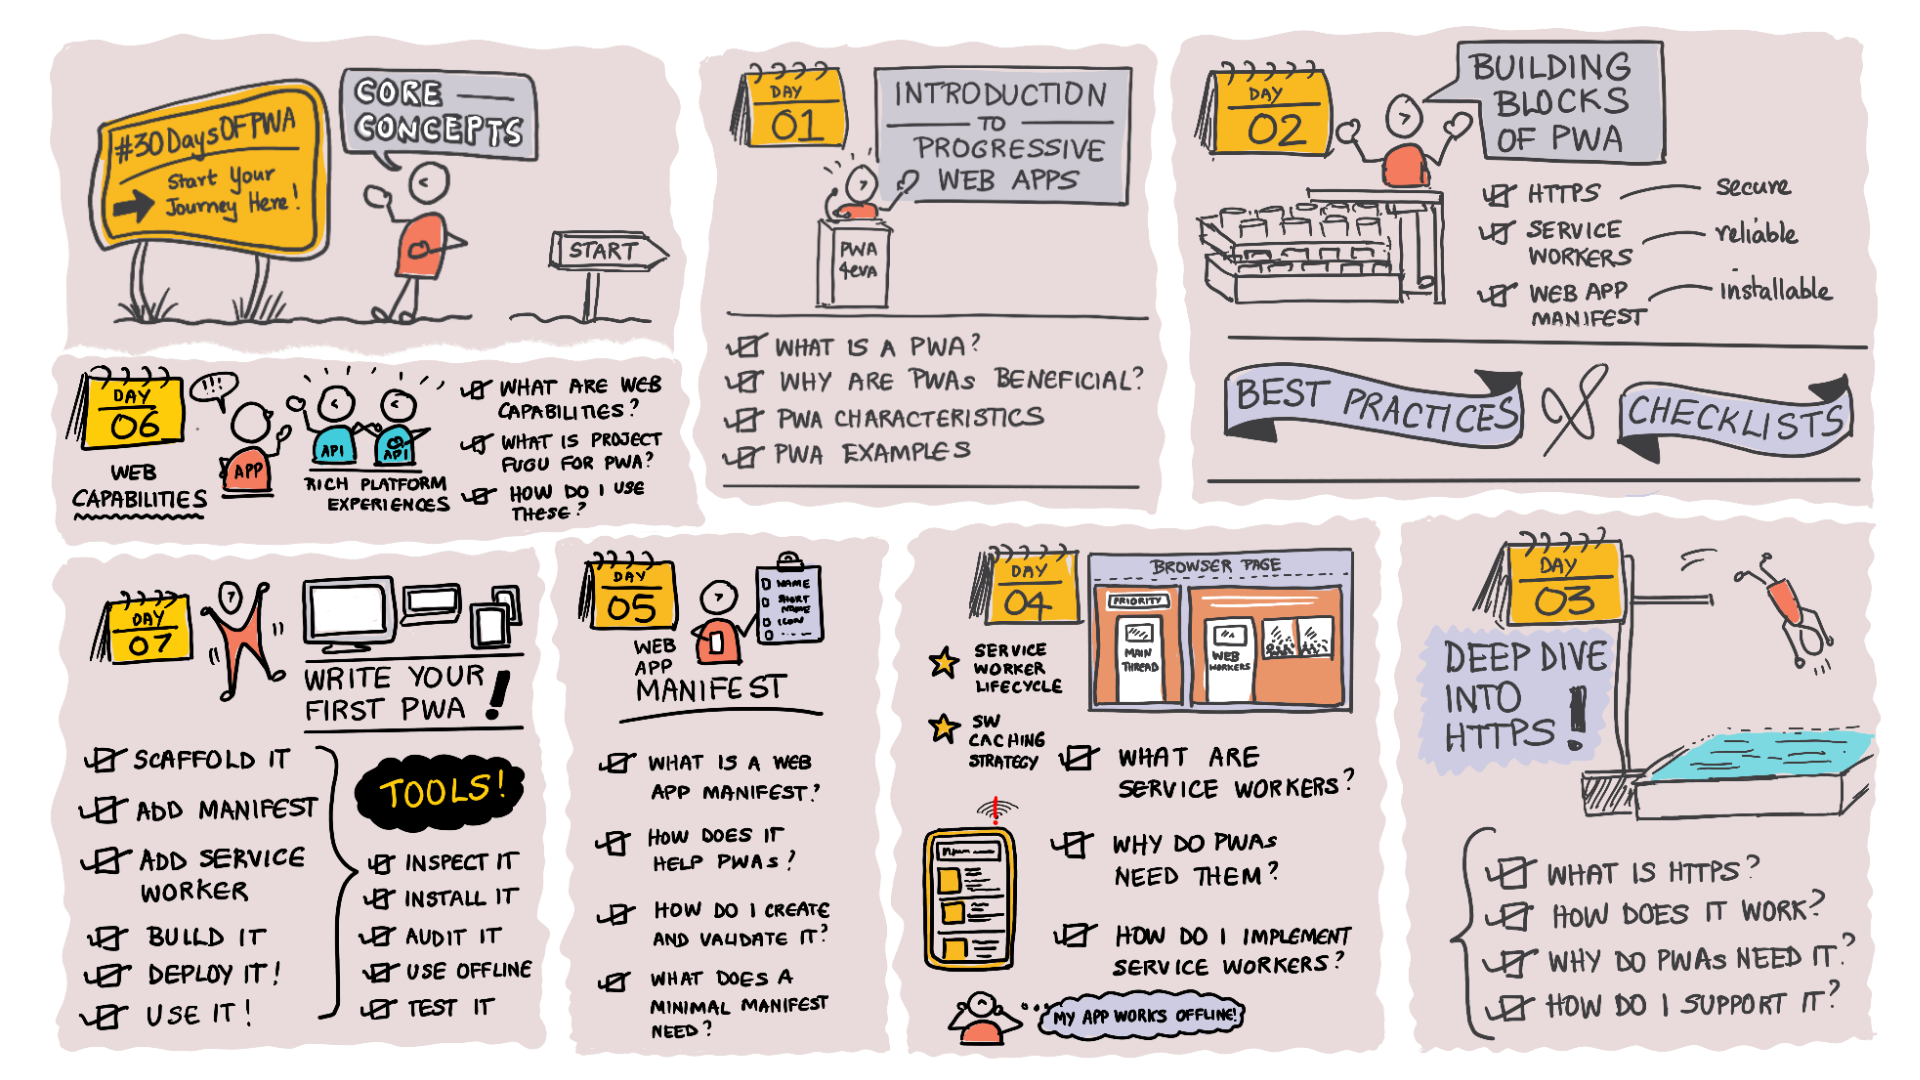
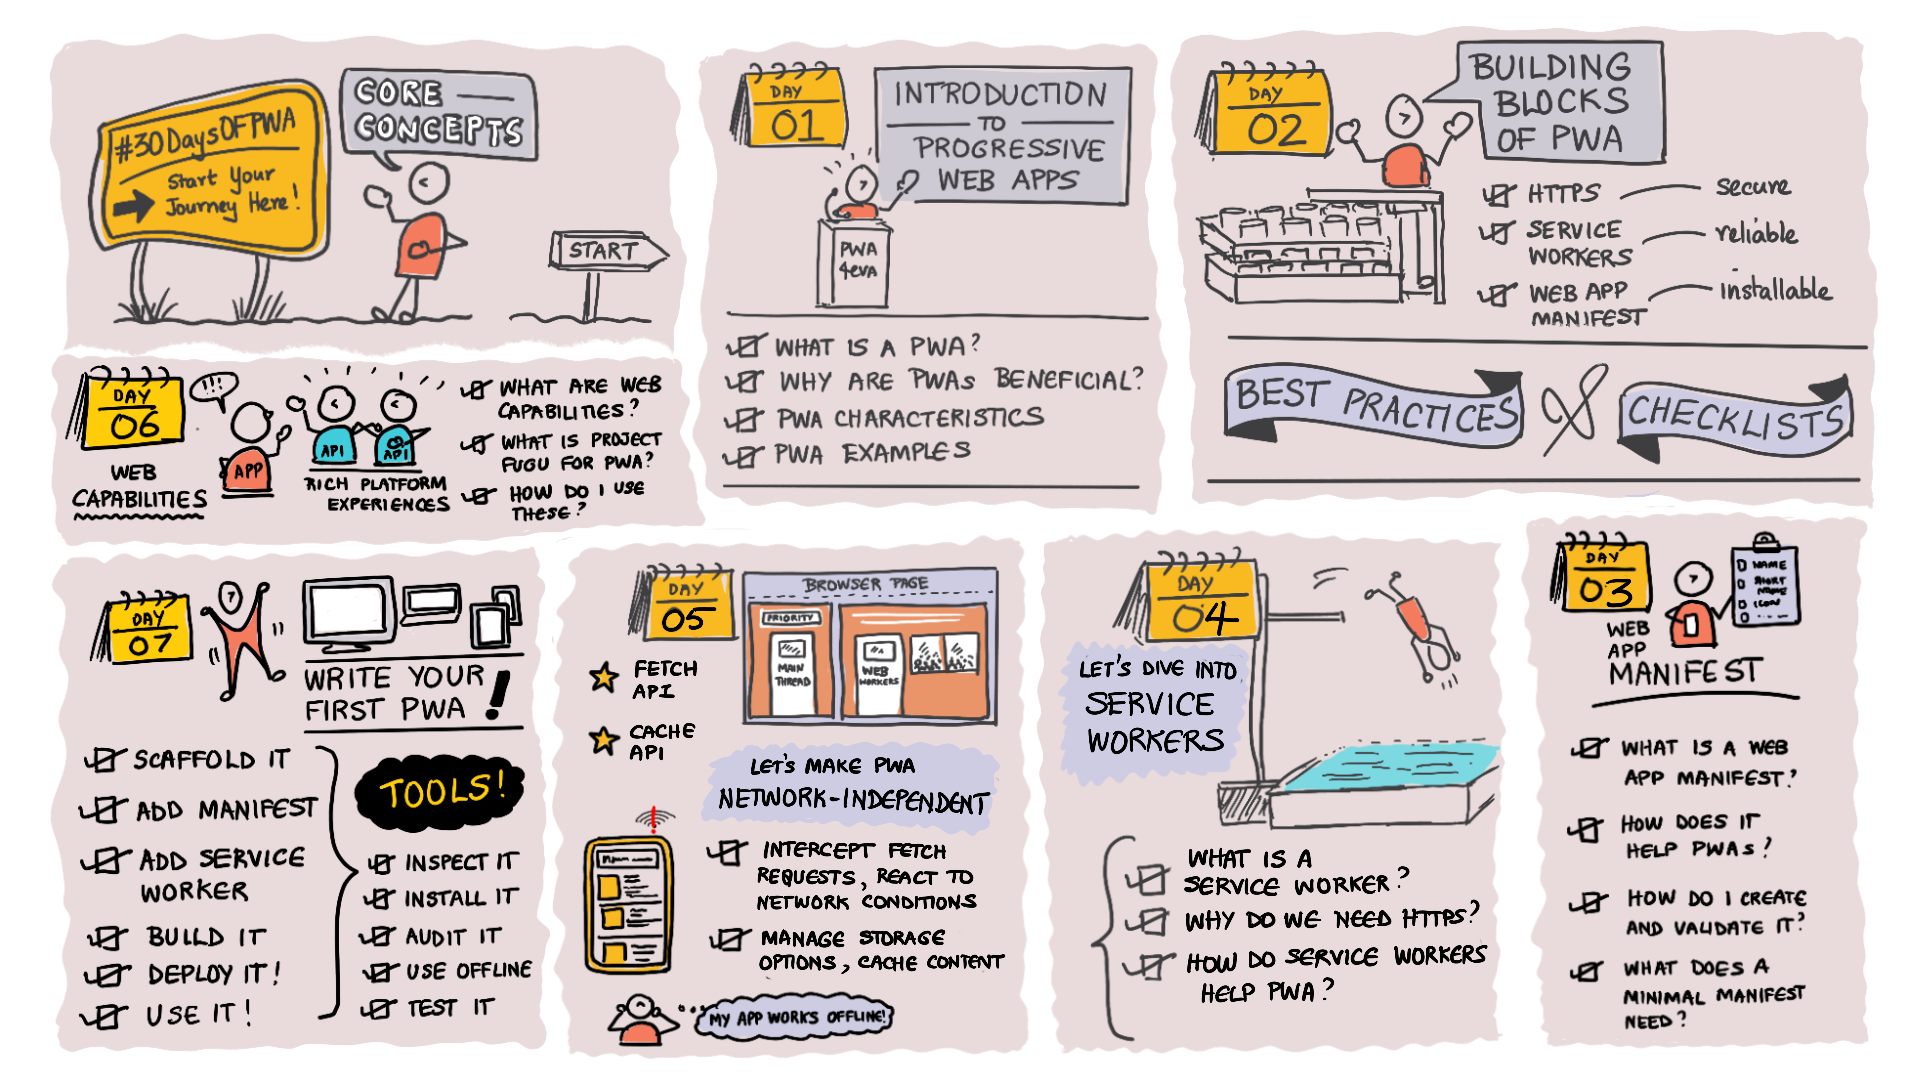
Core Concepts Sidebar/README updated

Changed region(s): [[0.2812, 0.4583, 1.0, 0.9778]]

diff --git a/docs/30DaysOfPWA/core-concepts/README.md b/docs/30DaysOfPWA/core-concepts/README.md
@@ -1,69 +1,21 @@
 # Week 1. Core Concepts
 
+Welcome to Week 1 of #30DaysOfPWA. Want to learn more about this project? Check out our [Kickoff](../kickoff.md) post to get more details on the content roadmap and contributors. Then read on for what we'll cover **this week**.
+
 ![Visual Guide to Core Concepts Week!](_media/week-1.png)
 
+---
 
-### WHAT WE'LL COVER IN WEEK 1
+## WHAT WE'LL COVER IN WEEK 1
+
+| Topic | Description|
+|:--- |:--- |
+| 1 - [Introducing PWA.](01.md) | What is a Progressive Web App (PWA)? How does it compare to other apps? What drives real-world PWA adoption? What characterizes a _good_ PWA? <br/><br/> **Exercise:** Install and explore a PWA.<br/> **Watch For:** [Week 4: Platforms And Practices](../platforms-practices) |
+| 2 - [Deconstructing PWA.](02.md) | What are the building blocks of a PWA? What does each contribute to PWA experience? What are core (vs. optional) features for PWA development? <br/><br/> **Exercise:** Audit sample PWA - explore the reports. <br/> **Watch For:** [Week 4: Platforms And Practices](../platforms-practices)|
+| 3 - [Make it Installable.](03.md) | What is a Web App Manifest? What does a minimal PWA manifest provide? How does do properties unlock advanced capabilities? <br/><br/> **Exercise:** Inspect _manifest.json_ - using DevTools.<br/> **Watch For:** [Week 3: Developer Tools](../dev-tools) |
+| 4 - [Make it Reliable.](04.md) | What is a Service Worker? Why is HTTPS essential? Understand registration and lifecycle events. Learn key use cases and Web APIs for service workers. <br/><br/> **Exercise:** Inspect _sw.js_ - using DevTools. <br/> **Watch For:** [Week 3: Developer Tools](../dev-tools) |
+| 5 - [Make it Work Offline.](05.md) | What is an offline PWA experience? How do PWAs detect network changes? Understand PWA caching strategies and storage options. <br/><br/> **Exercise:** Inspect  _Cache_, _Storage_ - using DevTools.<br/> **Watch For:** [Week 3: Developer Tools](../dev-tools)  |
+| 6 - [Make it Capable.](06.md) | What is the web capabilities project? What are key web APIs, interfaces? What is Feature Detection? What are pros & cons for PWA development?  <br/><br/> **Exercise:** Explore new capabilities in installed PWA. <br/> **Watch For:** [Week 2: Advanced Capabilities](../advanced-capabilities) |
+| 7 - [Build it Iteratively.](07.md) | How do I build a PWA from scratch? How do I enhance an existing app for PWA readiness? What tools and practices can I rely on as a developer?   <br/><br/> **Exercise:** Audit & fix existing app. Get minimal PWA. <br/> **Watch For:** [Week 3: Developer Tools](../dev-tools) |
 
 
-### 1.1 | &nbsp; [Introduction to PWA](02.md) 
-
-* What is a Progressive Web App? 
-* Why are the benefits and challenges of PWA?
-* What are the characteristics of PWA?
-* What are real-world examples of PWA adoption?
-* Explore: [PWA Stats](https://www.pwastats.com/) 
-* Related: [Week 4: Platforms And Practices](../platforms-practices)
-
-
-### 1.2 | &nbsp; [Building Blocks](03.md) 
-
-* What are the core components of a PWA?
-* What are the minimal requirements for a good PWA?
-* What are good practices for PWA development?
-* How can I validate my PWA for compliance?
-* Explore: [PWA Checklist](https://web.dev/pwa-checklist/)
-* Related: [Week 3: Developer Tools](../dev-tools)
-
-### 1.3 | &nbsp; [HTTPS](04.md) 
-
-* What is HTTPS? 
-* How does it work? 
-* Why is it necessary for Progressive Web Apps? 
-* How can I integrate HTTPS support into my PWA?
-* Explore: [Let's Encrypt](https://letsencrypt.org/getting-started/)
-* Related: [Week 4: Platforms And Practices](../platforms-practices)
-
-### 1.4 | &nbsp; [Service Workers](06.md) 
-* What are service workers? 
-* Why are do PWAs need them? 
-* How do I implement service workers in my PWA?
-* Review: Service Worker Lifecycle. 
-* Review: Caching Strategies.
-* Explore: [Service Workers: Primer](https://developers.google.com/web/fundamentals/primers/service-workers)
-* Related: [Week 3: Developer Tools](../dev-tools) | Workbox
-
-### 1.5 | &nbsp; [Web App Manifest](05.md) 
-* What is a Web App Manifest? 
-* How does it help PWAs? 
-* What does a minimal App Manifest need? 
-* How can I create and validate it?
-* Explore: [Web App Manifest: Keys](https://developer.mozilla.org/en-US/docs/Web/Manifest#members)
-* Related: [Week 3: Developer Tools](../dev-tools) | PWABuilder
-
-### 1.6 | &nbsp; [Web Capabilities](07.md) 
-* What are Web Capabilities? 
-* What is Project Fugu? 
-* How ready are they for real-world adoption?
-* How do I get started using web capabilities?
-* Explore: [Fugu API Tracker](https://fugu-tracker.web.app/)
-* Related: [Week 2: Advanced Capabilities](../advanced-capabilities)
-
-### 1.7 | &nbsp; [Quickstart ](08.md) 
-* `Scaffold`: a basic vanillaJS PWA.
-* `Enhance`: add manifest, service workers. 
-* `Build`: deploy and validate PWA operation. 
-* `Audit`: evaluate PWA for compliance, optimizations.
-* `Celebrate`: you built your first PWA!!
-* Explore: [HNPWA: OSS Examples](https://hnpwa.com/) | Archived 
-* Related: [Week 4: Platforms And Practices](../platforms-practices) | For Windows 

diff --git a/docs/_sidebar.md b/docs/_sidebar.md
@@ -3,13 +3,13 @@
 ---
 - [**0. Kickoff**](/30DaysOfPWA/kickoff)
 - [**1. Core Concepts**](/30DaysOfPWA/core-concepts/)
-    - [1.1 Introduction to PWA ](/30DaysOfPWA/core-concepts/01.md)
-    - [1.2 Building Blocks](/30DaysOfPWA/core-concepts/02.md)
-    - [1.3 HTTPS ](/30DaysOfPWA/core-concepts/03.md)
-    - [1.4 Service Workers](/30DaysOfPWA/core-concepts/04.md)
-    - [1.5 Web App Manifest ](/30DaysOfPWA/core-concepts/05.md)
-    - [1.6 Web Capabilities](/30DaysOfPWA/core-concepts/06.md)
-    - [1.7 Quickstart](/30DaysOfPWA/core-concepts/07.md)
+    - [1.1 Introducing PWA.](/30DaysOfPWA/core-concepts/01.md)
+    - [1.2 Deconstructing PWA.](/30DaysOfPWA/core-concepts/02.md)
+    - [1.3 Make PWA Installable. ](/30DaysOfPWA/core-concepts/03.md)
+    - [1.4 Make PWA Reliable.](/30DaysOfPWA/core-concepts/04.md)
+    - [1.5 Make PWA Work Offline. ](/30DaysOfPWA/core-concepts/05.md)
+    - [1.6 Make PWA Capable.](/30DaysOfPWA/core-concepts/06.md)
+    - [1.7 Developing PWA. ](/30DaysOfPWA/core-concepts/07.md)
 - [**2. Advanced Capabilities**](/30DaysOfPWA/advanced-capabilities/)
     - [2.1 Introduction to the advanced capabilities of Progressive Web Apps](/30DaysOfPWA/advanced-capabilities/01.md)
     - [2.2 Creating application shortcuts](/30DaysOfPWA/advanced-capabilities/02.md)
